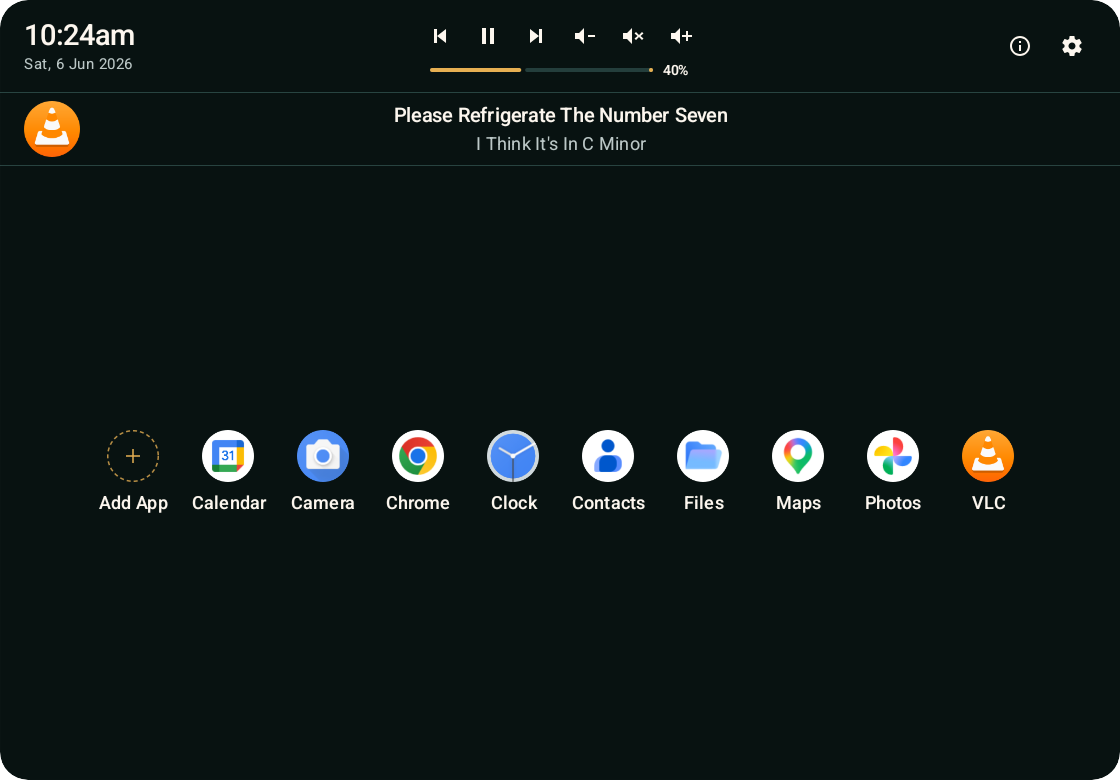
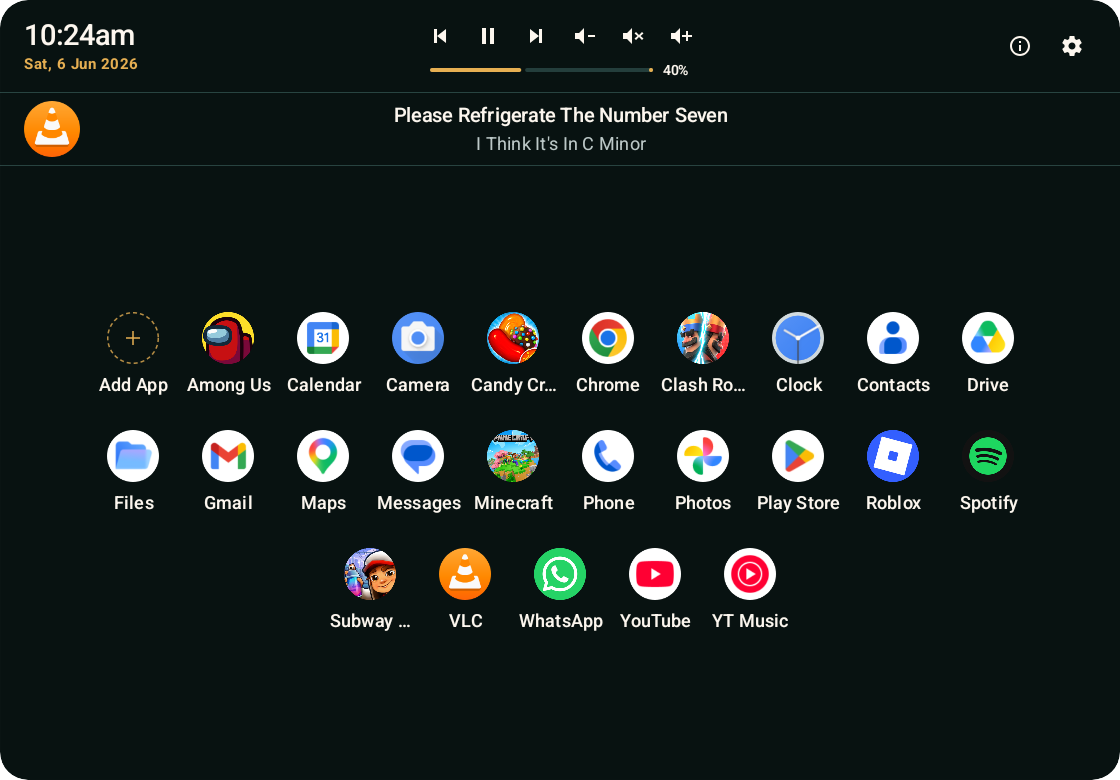
Accent the Launchpad date and show three rows of demo shortcuts

diff --git a/app/src/main/java/au/com/michaelcarey/artouchpad/ui/LaunchpadDate.kt b/app/src/main/java/au/com/michaelcarey/artouchpad/ui/LaunchpadDate.kt
@@ -42,7 +42,7 @@ internal fun LaunchpadDate() {
         Text(time, Modifier.testTag("launchpad-time"), style = MaterialTheme.typography.headlineMedium,
             fontWeight = FontWeight.Medium)
         Text(date, Modifier.testTag("launchpad-date"), style = MaterialTheme.typography.bodySmall,
-            color = MaterialTheme.colorScheme.onSurfaceVariant)
+            fontWeight = FontWeight.Bold, color = MaterialTheme.colorScheme.primary)
     }
 }
 

diff --git a/README.md b/README.md
@@ -37,7 +37,7 @@ Use your Android phone as a trackpad for an external monitor or display glasses.
 
 ### Launchpad
 
-![Launchpad with example app shortcuts and VLC playing “Please Refrigerate The Number Seven” by I Think It's In C Minor.](docs/assets/launchpad.png)
+![Launchpad with three rows of demo apps and games and VLC playing “Please Refrigerate The Number Seven” by I Think It's In C Minor.](docs/assets/launchpad.png)
 
 The clock follows your phone’s timezone and 12/24-hour setting. Below it, your shortcuts sit in a centred grid with up to ten tiles per row, including the dashed **Add App** circle.
 
